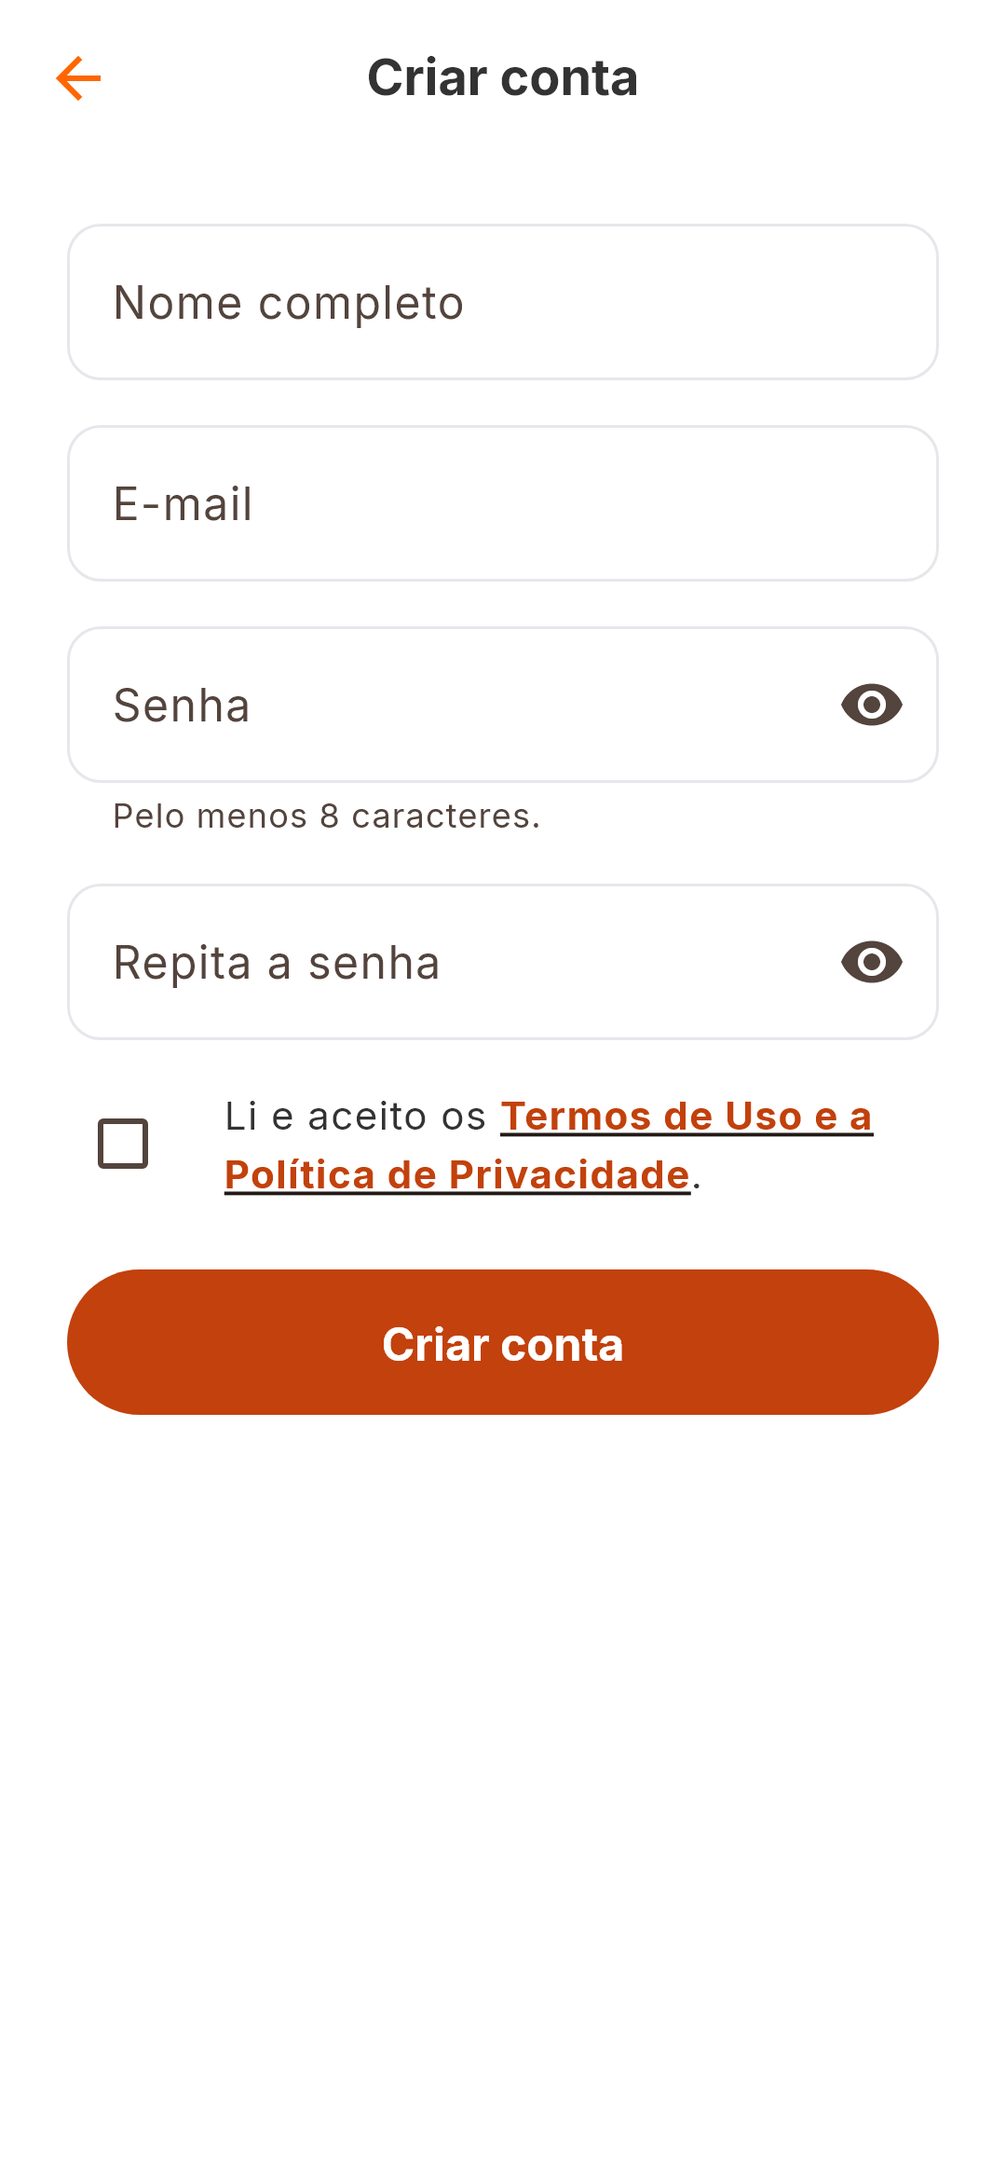
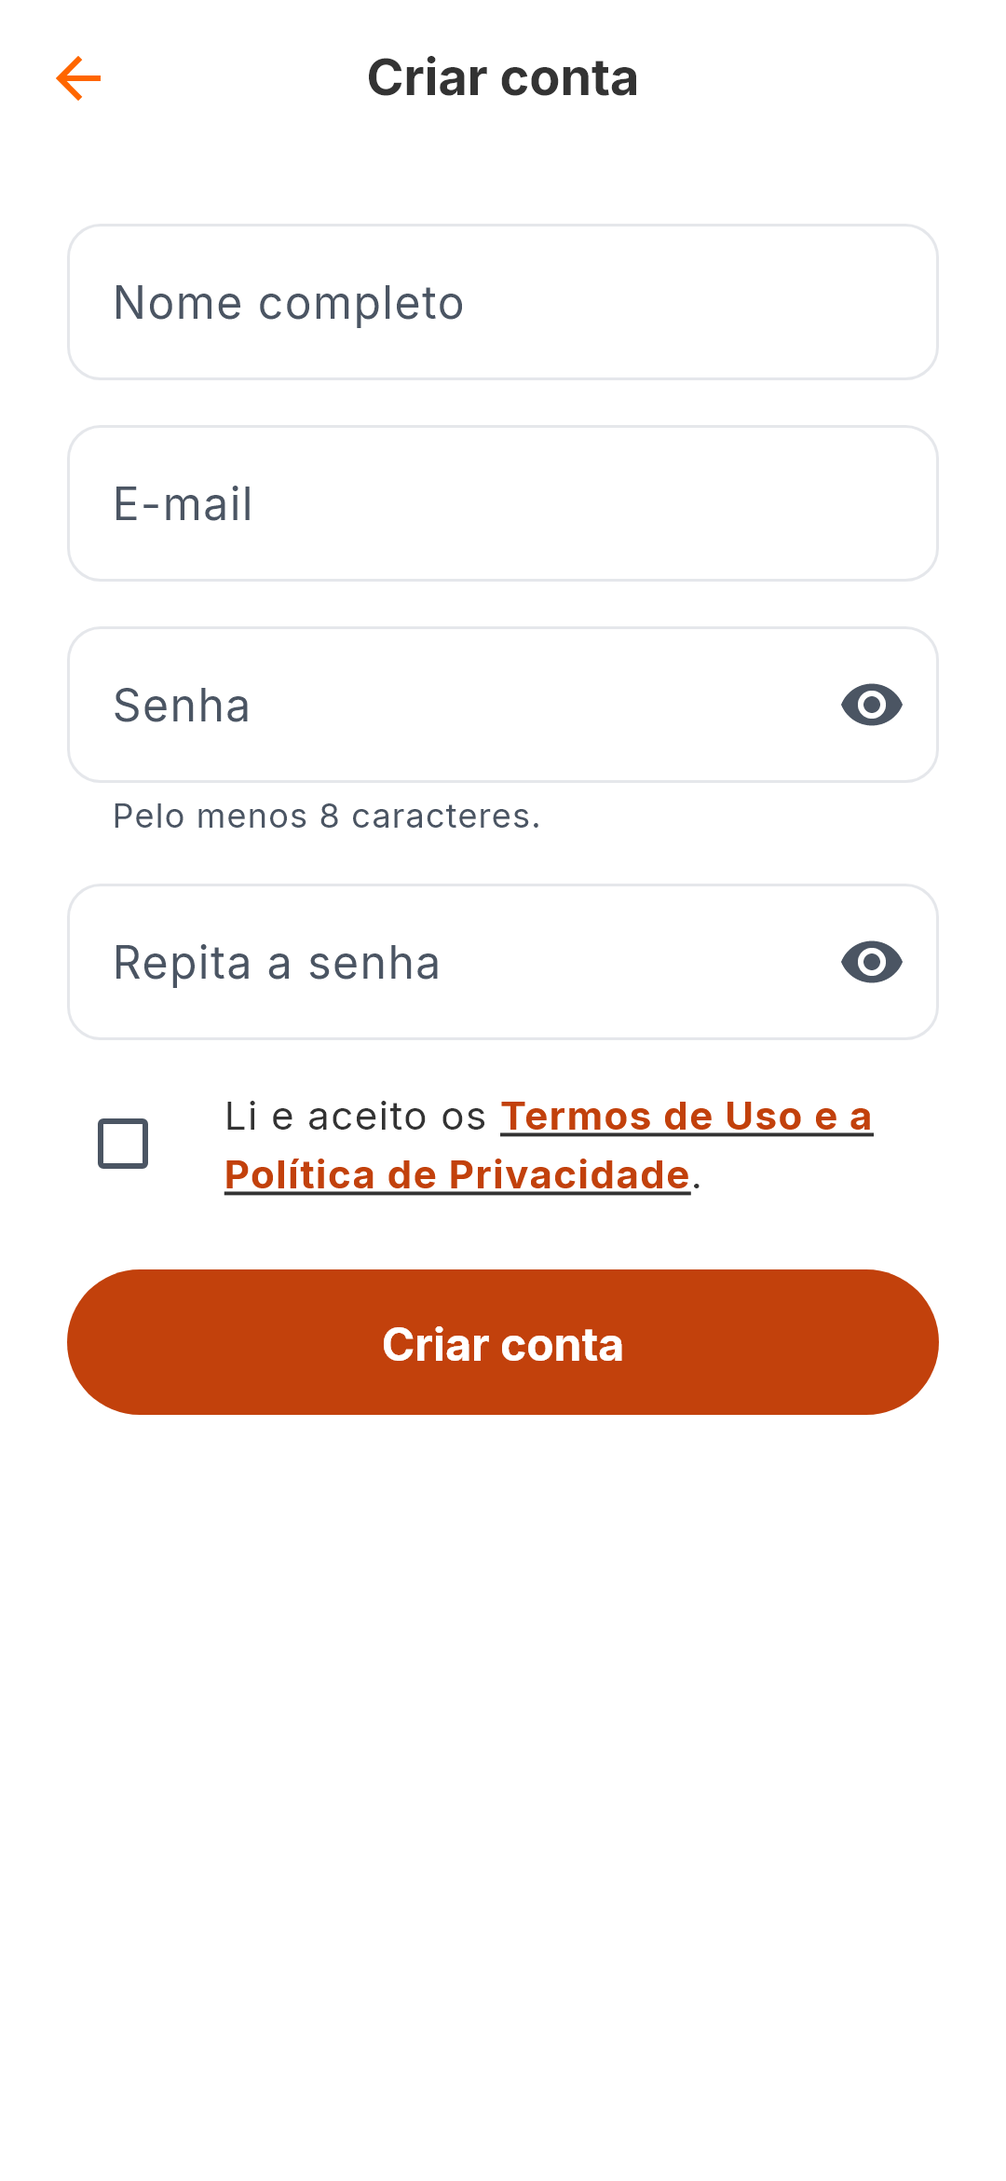
fix(ui): finish the neutral Material scheme and use one orange on a focused field
The earlier fix replaced the surfaces and the primary role, but the rest of the colour scheme was still derived from the brand orange. A selected segment and a checked filter chip came out pink, chip and segmented-button outlines pink and brown, the text components draw by themselves (field labels, chip labels, the calendar) brown next to the grey text of the screens, and the snack bar dark brown with pinkish text. Each of those roles now takes an app token, and a selected item uses the highlight the profile mode switch already had.

A focused field drew its border in the brand orange while its label and cursor used the control orange: two oranges on one field, and a focus indicator at 2.94:1. The border now uses the control orange (5.2:1).

A checked category chip kept its icon, so Material painted the check mark over a darkened copy of it. Checked, the mark takes the place of the icon.

The documentation screenshots are generated with real shadows: the test default replaces every shadow with a solid dark outline, which showed as a frame the app does not have.

Six theme tests and one flow test reproduce each point and were seen failing first.

diff --git a/lib/core/theme/app_theme.dart b/lib/core/theme/app_theme.dart
@@ -25,15 +25,29 @@ abstract final class AppTheme {
   );
 
   static ThemeData light() {
+    // O destaque de um item selecionado, igual ao do seletor de modo do
+    // perfil. Opaco, porque o Material pinta os componentes com ele direto.
+    final selectedHighlight = Color.alphaBlend(
+      AppColors.tint(AppColors.primaryStrong),
+      Colors.white,
+    );
+    // O Material 3 deriva do laranja da marca todas as cores que os
+    // componentes usam sozinhos, e o resultado destoa do resto do app. Cada
+    // papel abaixo troca a cor derivada por um token do app.
     final scheme = ColorScheme.fromSeed(seedColor: AppColors.primary).copyWith(
-      // A cor que o Material deriva do laranja para controles (caixas de
-      // seleção, dia escolhido no calendário, campo em foco) é um marrom que
-      // não aparece em mais nenhum lugar: usa o mesmo laranja dos botões.
+      // A cor derivada para controles (caixas de seleção, dia escolhido no
+      // calendário, campo em foco) é um marrom que não aparece em mais nenhum
+      // lugar: usa o mesmo laranja dos botões.
       primary: AppColors.primaryStrong,
       onPrimary: Colors.white,
-      // Superfícies neutras. As do Material 3 são tingidas pela cor da marca
-      // e, com o laranja, saem rosadas: cartões, menus, listas suspensas e o
-      // calendário destoavam do branco do resto do app.
+      // Item selecionado (segmento de um botão segmentado, filtro marcado):
+      // o derivado é um rosado.
+      primaryContainer: selectedHighlight,
+      onPrimaryContainer: AppColors.primaryStrong,
+      secondaryContainer: selectedHighlight,
+      onSecondaryContainer: AppColors.primaryStrong,
+      // Superfícies neutras. As derivadas saem rosadas: cartões, menus, listas
+      // suspensas e o calendário destoavam do branco do resto do app.
       surface: Colors.white,
       surfaceContainerLowest: Colors.white,
       surfaceContainerLow: Colors.white,
@@ -41,6 +55,17 @@ abstract final class AppTheme {
       surfaceContainerHigh: AppColors.headerBackground,
       surfaceContainerHighest: AppColors.divider,
       surfaceTint: Colors.transparent,
+      // Texto que os componentes escrevem (rótulo de campo e de filtro, itens
+      // de menu, calendário): os derivados são marrons.
+      onSurface: AppColors.textPrimary,
+      onSurfaceVariant: AppColors.textSecondary,
+      // Contornos: o de um controle precisa de 3:1 com o fundo; o decorativo é
+      // o mesmo dos cartões e dos campos.
+      outline: AppColors.textTertiary,
+      outlineVariant: AppColors.divider,
+      // Aviso (SnackBar).
+      inverseSurface: AppColors.textPrimary,
+      onInverseSurface: Colors.white,
     );
     final fieldBorder = OutlineInputBorder(
       borderRadius: BorderRadius.circular(12),
@@ -68,8 +93,13 @@ abstract final class AppTheme {
         fillColor: Colors.white,
         border: fieldBorder,
         enabledBorder: fieldBorder,
+        // O mesmo laranja do rótulo e do cursor do campo em foco, que vêm de
+        // `scheme.primary`.
         focusedBorder: fieldBorder.copyWith(
-          borderSide: const BorderSide(color: AppColors.primary, width: 2),
+          borderSide: const BorderSide(
+            color: AppColors.primaryStrong,
+            width: 2,
+          ),
         ),
         errorBorder: fieldBorder.copyWith(
           borderSide: const BorderSide(color: AppColors.danger),

diff --git a/test/core/theme_contrast_test.dart b/test/core/theme_contrast_test.dart
@@ -18,6 +18,10 @@ Color over(Color tint, Color background) => Color.alphaBlend(tint, background);
 /// Mínimo da WCAG AA para texto de tamanho normal.
 const double aa = 4.5;
 
+/// Mínimo da WCAG AA para o que não é texto e delimita ou indica o estado de
+/// um controle: bordas, indicador de foco (critério 1.4.11).
+const double nonText = 3;
+
 /// Confere o contraste de cada combinação de texto e fundo que o app usa.
 ///
 /// É um teste sobre as cores, e não sobre telas renderizadas, de propósito: a
@@ -136,6 +140,58 @@ void main() {
         expectReadable(scheme.onSurface, surface);
         expectReadable(scheme.onSurfaceVariant, surface);
       }
+    });
+
+    test('o texto dos componentes usa as cores de texto do app', () {
+      // Regressão: rótulo de campo, de filtro e os números do calendário
+      // saíam em um marrom derivado do laranja, ao lado do cinza do texto que
+      // as telas escrevem.
+      expect(scheme.onSurface, AppColors.textPrimary);
+      expect(scheme.onSurfaceVariant, AppColors.textSecondary);
+    });
+
+    test('item selecionado: o destaque do app, e não um rosado', () {
+      // Regressão: o segmento escolhido de um botão segmentado e o filtro
+      // marcado saíam com o rosado que o Material deriva do laranja, diferente
+      // do item selecionado do resto do app (o seletor de modo do perfil).
+      final highlight = over(AppColors.tint(AppColors.primaryStrong), white);
+
+      for (final (container, content) in [
+        (scheme.secondaryContainer, scheme.onSecondaryContainer),
+        (scheme.primaryContainer, scheme.onPrimaryContainer),
+      ]) {
+        expect(container, highlight);
+        expect(content, AppColors.primaryStrong);
+        expectReadable(content, container);
+      }
+    });
+
+    test('contornos neutros, e visíveis onde delimitam um controle', () {
+      // Regressão: a borda dos filtros saía rosada e a do botão segmentado,
+      // marrom, ao lado das bordas cinza dos cartões e dos campos.
+      expect(scheme.outlineVariant, AppColors.divider);
+      expect(scheme.outline, AppColors.textTertiary);
+      expect(contrast(scheme.outline, white), greaterThanOrEqualTo(nonText));
+    });
+
+    test('campo em foco: a borda no mesmo laranja do rótulo e do cursor', () {
+      // Regressão: a borda do campo em foco ficava no laranja da marca e o
+      // rótulo e o cursor, no dos controles: dois laranjas no mesmo campo, e o
+      // indicador de foco abaixo de 3:1.
+      final focused = AppTheme.light().inputDecorationTheme.focusedBorder!;
+
+      expect(focused.borderSide.color, scheme.primary);
+      expect(
+        contrast(focused.borderSide.color, white),
+        greaterThanOrEqualTo(nonText),
+      );
+    });
+
+    test('aviso (SnackBar): fundo neutro, texto e ação legíveis', () {
+      // Regressão: o aviso saía em um marrom escuro com texto rosado.
+      expect(scheme.inverseSurface, AppColors.textPrimary);
+      expectReadable(scheme.onInverseSurface, scheme.inverseSurface);
+      expectReadable(scheme.inversePrimary, scheme.inverseSurface);
     });
   });
 

diff --git a/lib/features/client/explore/presentation/pages/explore_page.dart b/lib/features/client/explore/presentation/pages/explore_page.dart
@@ -64,11 +64,15 @@ class _ExplorePageState extends State<ExplorePage> {
                 for (final category in controller.categories)
                   FilterChip(
                     label: Text(category.name),
-                    avatar: Icon(
-                      iconForCategory(category.iconKey),
-                      size: 18,
-                      color: AppColors.primaryStrong,
-                    ),
+                    // Marcado, o visto ocupa o lugar do ícone. Com os dois, o
+                    // Material desenha o visto por cima do ícone escurecido.
+                    avatar: query.categorySlug == category.slug
+                        ? null
+                        : Icon(
+                            iconForCategory(category.iconKey),
+                            size: 18,
+                            color: AppColors.primaryStrong,
+                          ),
                     selected: query.categorySlug == category.slug,
                     onSelected: (_) => controller.toggleCategory(category.slug),
                   ),

diff --git a/test/app/browsing_flow_test.dart b/test/app/browsing_flow_test.dart
@@ -133,6 +133,24 @@ void main() {
       expect(find.text('Salão Glamour 8'), findsOneWidget);
     });
 
+    appTest('o filtro de categoria marcado troca o ícone pelo visto', (
+      tester,
+      app,
+    ) async {
+      // Regressão: o filtro marcado mantinha o ícone da categoria e o Material
+      // desenhava o visto por cima dele, com um disco cinza no meio.
+      await openTab(tester, 'Explorar');
+      FilterChip chip(String label) =>
+          tester.widget(find.widgetWithText(FilterChip, label));
+      expect(chip('Atrações').avatar, isNotNull);
+
+      await tapAndSettle(tester, find.widgetWithText(FilterChip, 'Atrações'));
+
+      expect(chip('Atrações').selected, isTrue);
+      expect(chip('Atrações').avatar, isNull);
+      expect(chip('Salões').avatar, isNotNull);
+    });
+
     appTest('tocar de novo no filtro ativo desliga o filtro', (
       tester,
       app,

diff --git a/test/support/visual_harness.dart b/test/support/visual_harness.dart
@@ -86,6 +86,21 @@ Future<void> withFakeNetworkImages(Future<void> Function() body) async {
   }
 }
 
+/// Roda [body] desenhando as sombras de verdade.
+///
+/// Nos testes o Flutter troca cada sombra por um contorno escuro e sólido,
+/// para a imagem não depender da máquina. Em uma captura para a documentação
+/// esse contorno vira uma moldura que o app não tem (em volta do aviso, do
+/// seletor de modo, dos botões dos cards).
+Future<void> withRealShadows(Future<void> Function() body) async {
+  debugDisableShadows = false;
+  try {
+    await body();
+  } finally {
+    debugDisableShadows = true;
+  }
+}
+
 /// Define a tela do teste como a de um celular.
 void usePhoneScreen(WidgetTester tester) {
   tester.view.physicalSize = phoneSize * phonePixelRatio;

diff --git a/test/visual/screenshots_test.dart b/test/visual/screenshots_test.dart
@@ -33,14 +33,16 @@ void main() {
     AppDependencies Function()? dependencies,
   }) {
     testWidgets(description, (tester) {
-      return withFakeNetworkImages(() async {
-        usePhoneScreen(tester);
-        await pumpYvenistApp(
-          tester,
-          signedIn: signedIn,
-          dependencies: dependencies?.call(),
-        );
-        await body(tester);
+      return withFakeNetworkImages(() {
+        return withRealShadows(() async {
+          usePhoneScreen(tester);
+          await pumpYvenistApp(
+            tester,
+            signedIn: signedIn,
+            dependencies: dependencies?.call(),
+          );
+          await body(tester);
+        });
       });
     });
   }

diff --git a/docs/04-ux/design-system.md b/docs/04-ux/design-system.md
@@ -15,7 +15,7 @@ não escreve cor nem tamanho de fonte à mão. Motivos:
 | Token | Valor | Uso |
 |---|---|---|
 | `primary` | `#FF6600` | **só ícones e áreas grandes**: contraste 2,94:1 sobre branco, insuficiente para texto |
-| `primaryStrong` | `#C2410C` | texto laranja, links, botões, rótulo da aba ativa, controles do Material |
+| `primaryStrong` | `#C2410C` | texto laranja, links, botões, rótulo da aba ativa, controles do Material, borda do campo em foco |
 | `vendor`, `vendorAccent` | `#2C3E50`, `#3A7D88` | modo fornecedor |
 | `clientGradient`, `vendorGradient`, `successGradient` | pares escuros | cabeçalhos e banners com texto branco |
 | `textPrimary` | `#333333` | texto |
@@ -31,13 +31,26 @@ ele não pode ser cor de texto.
 
 ## Tema (`app_theme.dart`)
 
-- Material 3, com o esquema derivado do laranja e **dois ajustes**: `primary` é
-  `primaryStrong` (senão caixas de seleção e calendário saem em um marrom que
-  não existe no resto do app) e as superfícies são neutras (senão cartões,
-  menus e listas suspensas saem rosados).
+- Material 3. O esquema nasce do laranja (`ColorScheme.fromSeed`), mas **toda
+  cor que um componente usa sozinho é trocada por um token do app**: as
+  derivadas saem marrons e rosadas, e destoam do resto.
+
+  | Papel do Material | Token | Onde aparece |
+  |---|---|---|
+  | `primary` | `primaryStrong` | caixa de seleção, opção marcada, dia escolhido no calendário, rótulo e cursor do campo em foco |
+  | `primaryContainer`, `secondaryContainer` | `tint(primaryStrong)` sobre branco | segmento escolhido de um botão segmentado, filtro marcado: o mesmo destaque do seletor de modo do perfil |
+  | `onPrimaryContainer`, `onSecondaryContainer` | `primaryStrong` | texto e visto do item selecionado |
+  | `surface` e `surfaceContainer*` | branco, `headerBackground`, `divider` | cartões, menus, listas suspensas, calendário |
+  | `onSurface`, `onSurfaceVariant` | `textPrimary`, `textSecondary` | rótulo de campo e de filtro, itens de menu, calendário |
+  | `outline` | `textTertiary` | contorno de um controle (botão segmentado, botão com contorno): 4,8:1 |
+  | `outlineVariant` | `divider` | contorno decorativo (filtros) |
+  | `inverseSurface`, `onInverseSurface` | `textPrimary`, branco | aviso (SnackBar) |
+
+  Papel novo em uso → entra nessa lista e em `test/core/theme_contrast_test.dart`.
 - Botão preenchido: `primaryStrong` com texto branco, 52 de altura, cantos
   totalmente arredondados.
-- Campos: fundo branco, borda `divider`, raio 12; erro em `danger`.
+- Campos: fundo branco, borda `divider`, raio 12; em foco, borda de 2 em
+  `primaryStrong`; erro em `danger`.
 - Diálogos, folhas, menus e calendário: brancos.
 - Barra de status clara por padrão; sobre o cabeçalho escuro do perfil,
   `AppTheme.systemUiOnDarkHeader`.
@@ -87,5 +100,8 @@ Do app inteiro: `AppBottomNavBar` e `PartyTabButton` (`lib/app/widgets/`).
 - Função prevista e não construída: item visível, com "Em breve" no lugar da
   seta, sem responder ao toque.
 - Botão que não pode agir fica desabilitado.
+- Item selecionado: fundo `tint(primaryStrong)`, texto em `primaryStrong` e um
+  visto. Em um filtro com ícone, o visto ocupa o lugar do ícone
+  (`explore_page.dart`).
 - Ação destrutiva: texto em `danger` e confirmação.
 - Toda lista longa tem carregando, vazio e erro.

diff --git a/docs/08-changelog/2026-10.md b/docs/08-changelog/2026-10.md
@@ -18,11 +18,36 @@ dependia dos donos e deixar pronto o que não depende.
   que aguardavam com ele. Deixa de ser pendência (era o KI-18). O código não
   mudou; a regra ganhou dois testes para os limites dela.
 
+**Defeitos corrigidos**
+
+- Revisão visual: a decisão do
+  [ADR-008](../05-decisions/ADR-008-acessibilidade-e-cores.md) (controles no
+  laranja dos botões, superfícies neutras) só tinha sido aplicada a parte do
+  esquema de cores. Continuavam derivados do laranja, e foram trocados por
+  tokens do app: o segmento escolhido do botão segmentado e o filtro marcado
+  (rosados), o contorno dos filtros e do botão segmentado, o texto que os
+  componentes escrevem (marrom), o aviso (SnackBar) e a borda do campo em
+  foco, que usava um laranja e o rótulo, outro. Seis testes reproduzem cada
+  ponto. Tabela de papéis em [design-system](../04-ux/design-system.md).
+- O filtro de categoria marcado desenhava o visto por cima do ícone, com um
+  disco cinza no meio: marcado, o visto ocupa o lugar do ícone.
+
+**Mudou**
+
+- As capturas de `docs/screenshots/` passaram a ser geradas com as sombras de
+  verdade; antes cada sombra virava uma moldura escura que o app não tem.
+  Dezesseis das dezoito foram regeneradas.
+
 **Verificado**
 
 - API em SQLite: 348 testes passaram, 8 pulados (os de concorrência, que só
   rodam em PostgreSQL). Os dois testes novos foram vistos falhar com a regra
   quebrada de propósito (sem o filtro "só os que aguardam") e passar com ela.
+- App: formatação e análise sem apontamentos; 515 testes passaram, 29 pulados
+  (integração e geração de capturas). Os seis testes do tema foram vistos
+  falhar antes da correção.
+- Antes e depois conferidos em imagem, nas telas reais: campo em foco, filtros
+  marcados, botão segmentado do cadastro de salão, calendário e aviso.
 
 ## 2026-10-02 — Pendências fechadas e Knowledge Base
 

diff --git a/docs/04-ux/accessibility.md b/docs/04-ux/accessibility.md
@@ -14,6 +14,7 @@ O que é garantido e por qual teste. Motivos:
 | Critério | Mínimo | Teste |
 |---|---|---|
 | Contraste de texto | 4,5:1 (WCAG AA) em cada par de cor usado | `test/core/theme_contrast_test.dart` |
+| Contraste do que não é texto | 3:1 no contorno de um controle e na borda do campo em foco | mesmo arquivo, grupo "componentes do Material" |
 | Área de toque | 48×48 | `androidTapTargetGuideline` em `test/app/accessibility_test.dart` |
 | Rótulo em todo controle tocável | sempre | `labeledTapTargetGuideline`, mesmo arquivo |
 | Fonte do sistema em 200% | nenhuma tela estoura | grupo "letras grandes", mesmo arquivo |
@@ -53,9 +54,11 @@ fundo tingido, por exemplo), acrescente-o à lista do teste.
 
 ## Limites conhecidos
 
-- `primary` (`#FF6600`) em ícones e na borda de foco dos campos tem 2,94:1,
-  logo abaixo dos 3:1 pedidos para elementos não textuais. Depende da decisão
-  sobre o tom da marca.
+- `primary` (`#FF6600`) em ícones, na barra de progresso e nos indicadores de
+  carregamento tem 2,94:1, logo abaixo dos 3:1 pedidos para elementos não
+  textuais. Depende da decisão sobre o tom da marca.
+- A borda de um campo **sem foco** é `divider` (1,2:1 com o branco): o campo é
+  reconhecido pelo rótulo, não pelo contorno.
 - Não foi testado com TalkBack ou VoiceOver em um aparelho de verdade: o que há
   são as verificações de semântica dos testes.
 - Sem modo escuro.

diff --git a/docs/05-decisions/ADR-008-acessibilidade-e-cores.md b/docs/05-decisions/ADR-008-acessibilidade-e-cores.md
@@ -57,3 +57,23 @@ Como tornar o app legível sem trocar a cor da marca, que é decisão dos donos?
   primeiro para diálogos e menus; cartões e listas suspensas ficaram de fora e
   apareceram rosados na versão web. Corrigir o esquema de cores resolve a
   causa.
+
+## Atualização de 2026-10-02: a mesma decisão, aplicada até o fim
+
+A decisão não mudou. A revisão visual mostrou que ela tinha sido aplicada só a
+uma parte do esquema de cores, e o resto continuava derivado do laranja:
+
+- o segmento escolhido do botão segmentado e o filtro marcado saíam rosados;
+- o contorno dos filtros saía rosado e o do botão segmentado, marrom;
+- rótulo de campo, de filtro e os números do calendário saíam marrons, ao lado
+  do cinza do texto das telas;
+- o aviso (SnackBar) saía em marrom escuro com texto rosado;
+- a borda do campo em foco ficava em `primary` enquanto o rótulo e o cursor
+  usavam `primaryStrong`: dois laranjas no mesmo campo.
+
+Todos passaram a usar tokens do app; a tabela de papéis está em
+[design-system](../04-ux/design-system.md). Com isso a consequência "ícones e a
+borda de foco em `primary` ficam em 2,94:1" vale agora **só para ícones e
+áreas grandes**: a borda de foco tem 5,2:1. O item selecionado segue o destaque
+que o app já usava no seletor de modo do perfil, então nenhuma cor nova foi
+criada. A pendência dos donos (o tom da marca) continua a mesma.

diff --git a/docs/04-ux/screens.md b/docs/04-ux/screens.md
@@ -35,7 +35,10 @@ Onde uma conta é exigida:     Entrar ⇄ Criar conta
 ## Capturas
 
 Geradas das telas reais por `test/visual/screenshots_test.dart`, em modo
-demonstração, com a fonte Inter embutida. Para regenerar:
+demonstração, com a fonte Inter embutida e as sombras de verdade (nos testes
+o Flutter troca cada sombra por um contorno escuro; `withRealShadows`, em
+`test/support/visual_harness.dart`, desliga isso só para as capturas). Para
+regenerar:
 
 ```
 flutter test --update-goldens --run-skipped --tags screenshots test/visual/screenshots_test.dart
